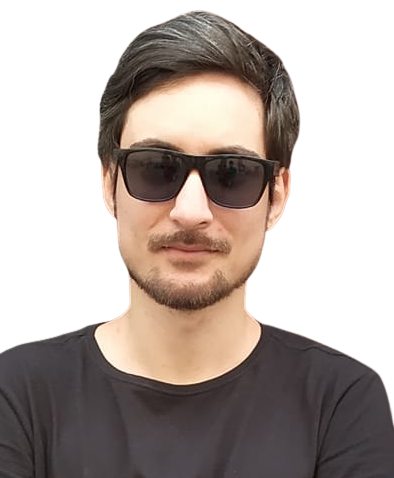
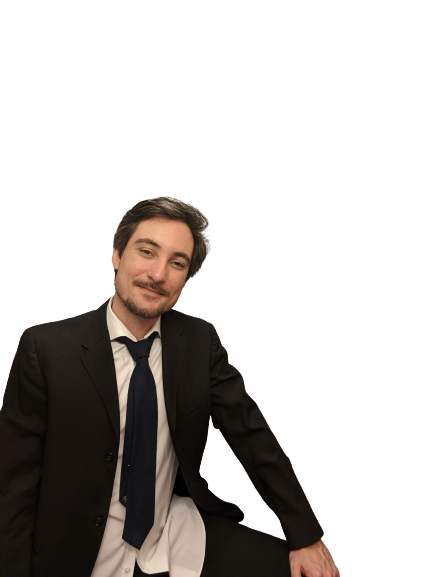
Update initial image

diff --git a/index.html b/index.html
@@ -105,7 +105,7 @@
                                         Insert your image in the Img folder and Change your image |
                                         Center your image with X: horizontal, Y: vertical 
                                     ====================-->
-                                    <image class="home__blob-img" x="25" y="18" href="assets/img/perfil.png"/>
+                                    <image class="home__blob-img" x="20" y="-110" href="assets/img/perfil.png"/>
                                 </g>
                             </svg>
                         </div>

diff --git a/assets/css/styles.css b/assets/css/styles.css
@@ -290,7 +290,7 @@ img {
 }
 
 .home__blob-img {
-  width: 170px;
+  width: 270px;
 }
 
 .home__data {
@@ -1175,7 +1175,7 @@ img {
     padding: 0;
   }
   .home__blob {
-    width: 320px;
+    width: 280px;
   }
   .home__social {
     transform: translateX(-6rem);
